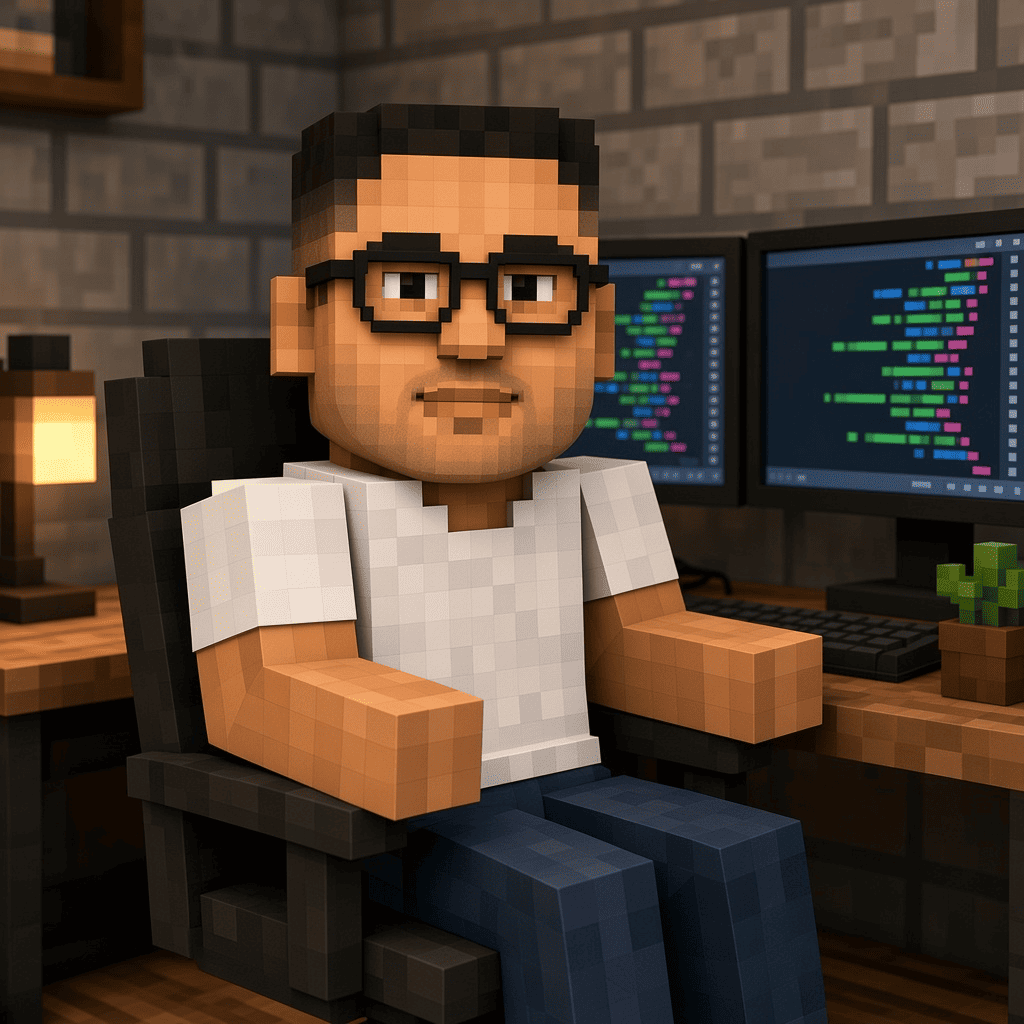
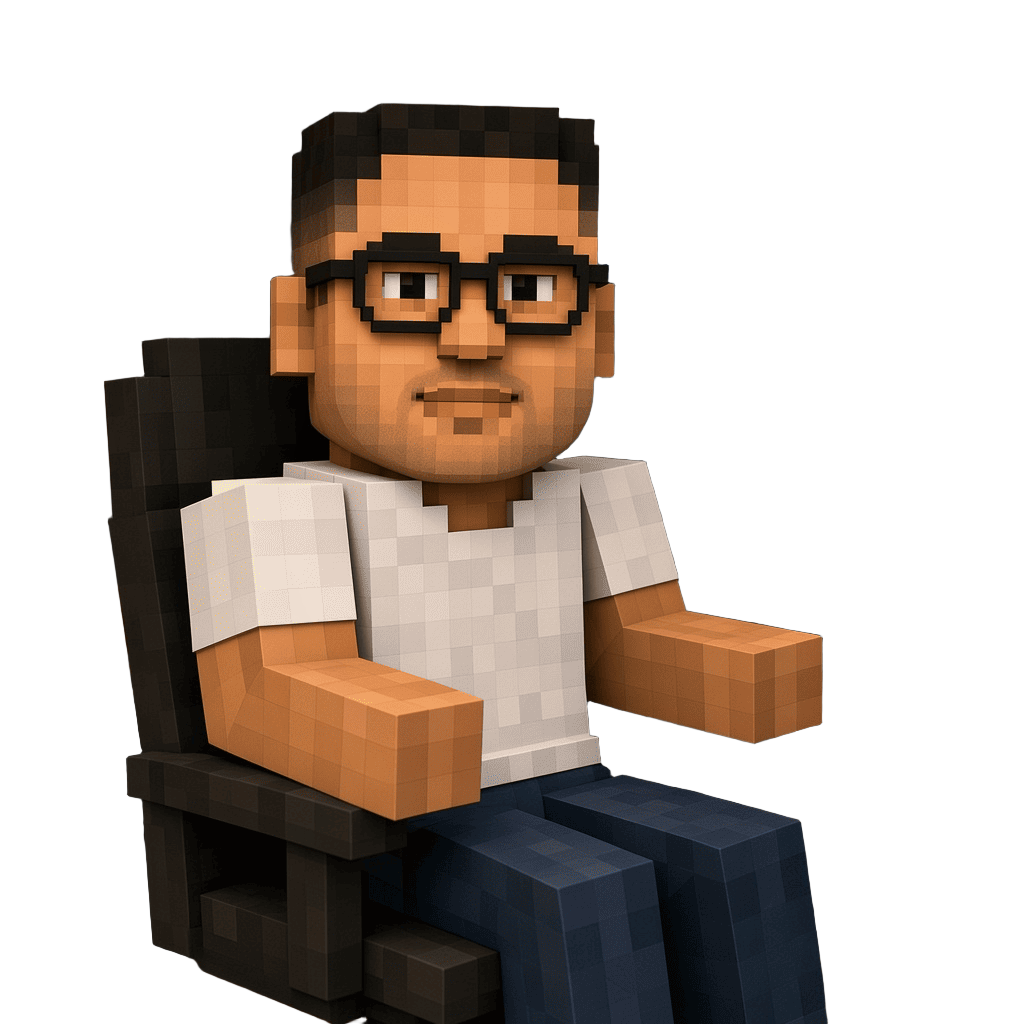
Hero: perfil con fondo transparente y español por defecto (#2)
Elimina el fondo del PNG de perfil con rembg y establece es como locale
inicial (types, lang del documento, script inline y meta por defecto).

diff --git a/src/i18n/types.ts b/src/i18n/types.ts
@@ -2,4 +2,4 @@ export type Locale = 'en' | 'es';
 
 export const LOCALE_STORAGE_KEY = 'portfolio-lang';
 
-export const DEFAULT_LOCALE: Locale = 'en';
+export const DEFAULT_LOCALE: Locale = 'es';
